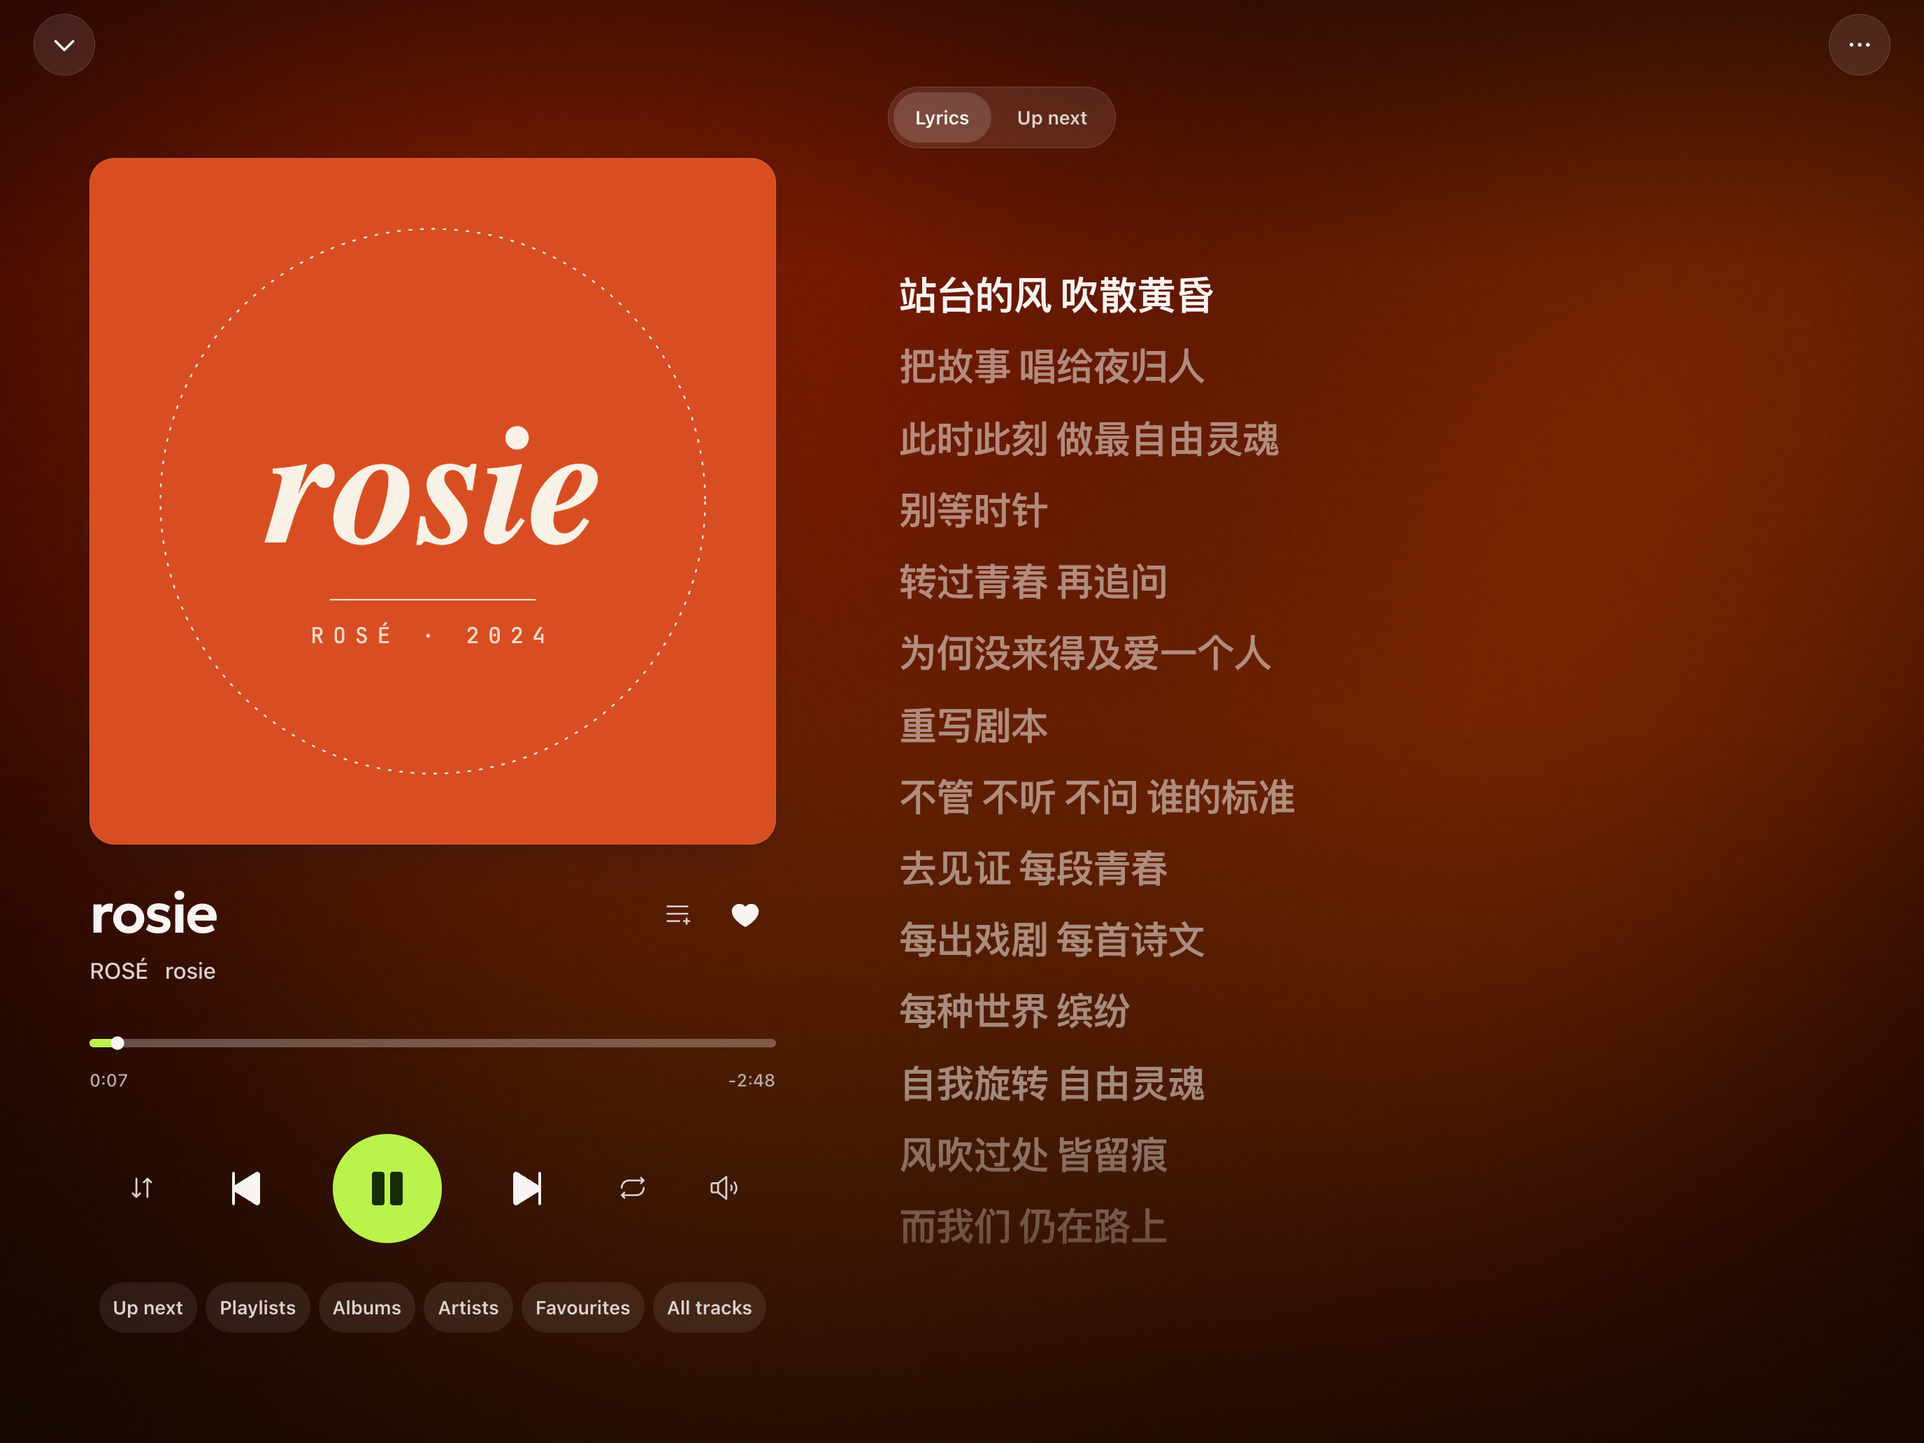
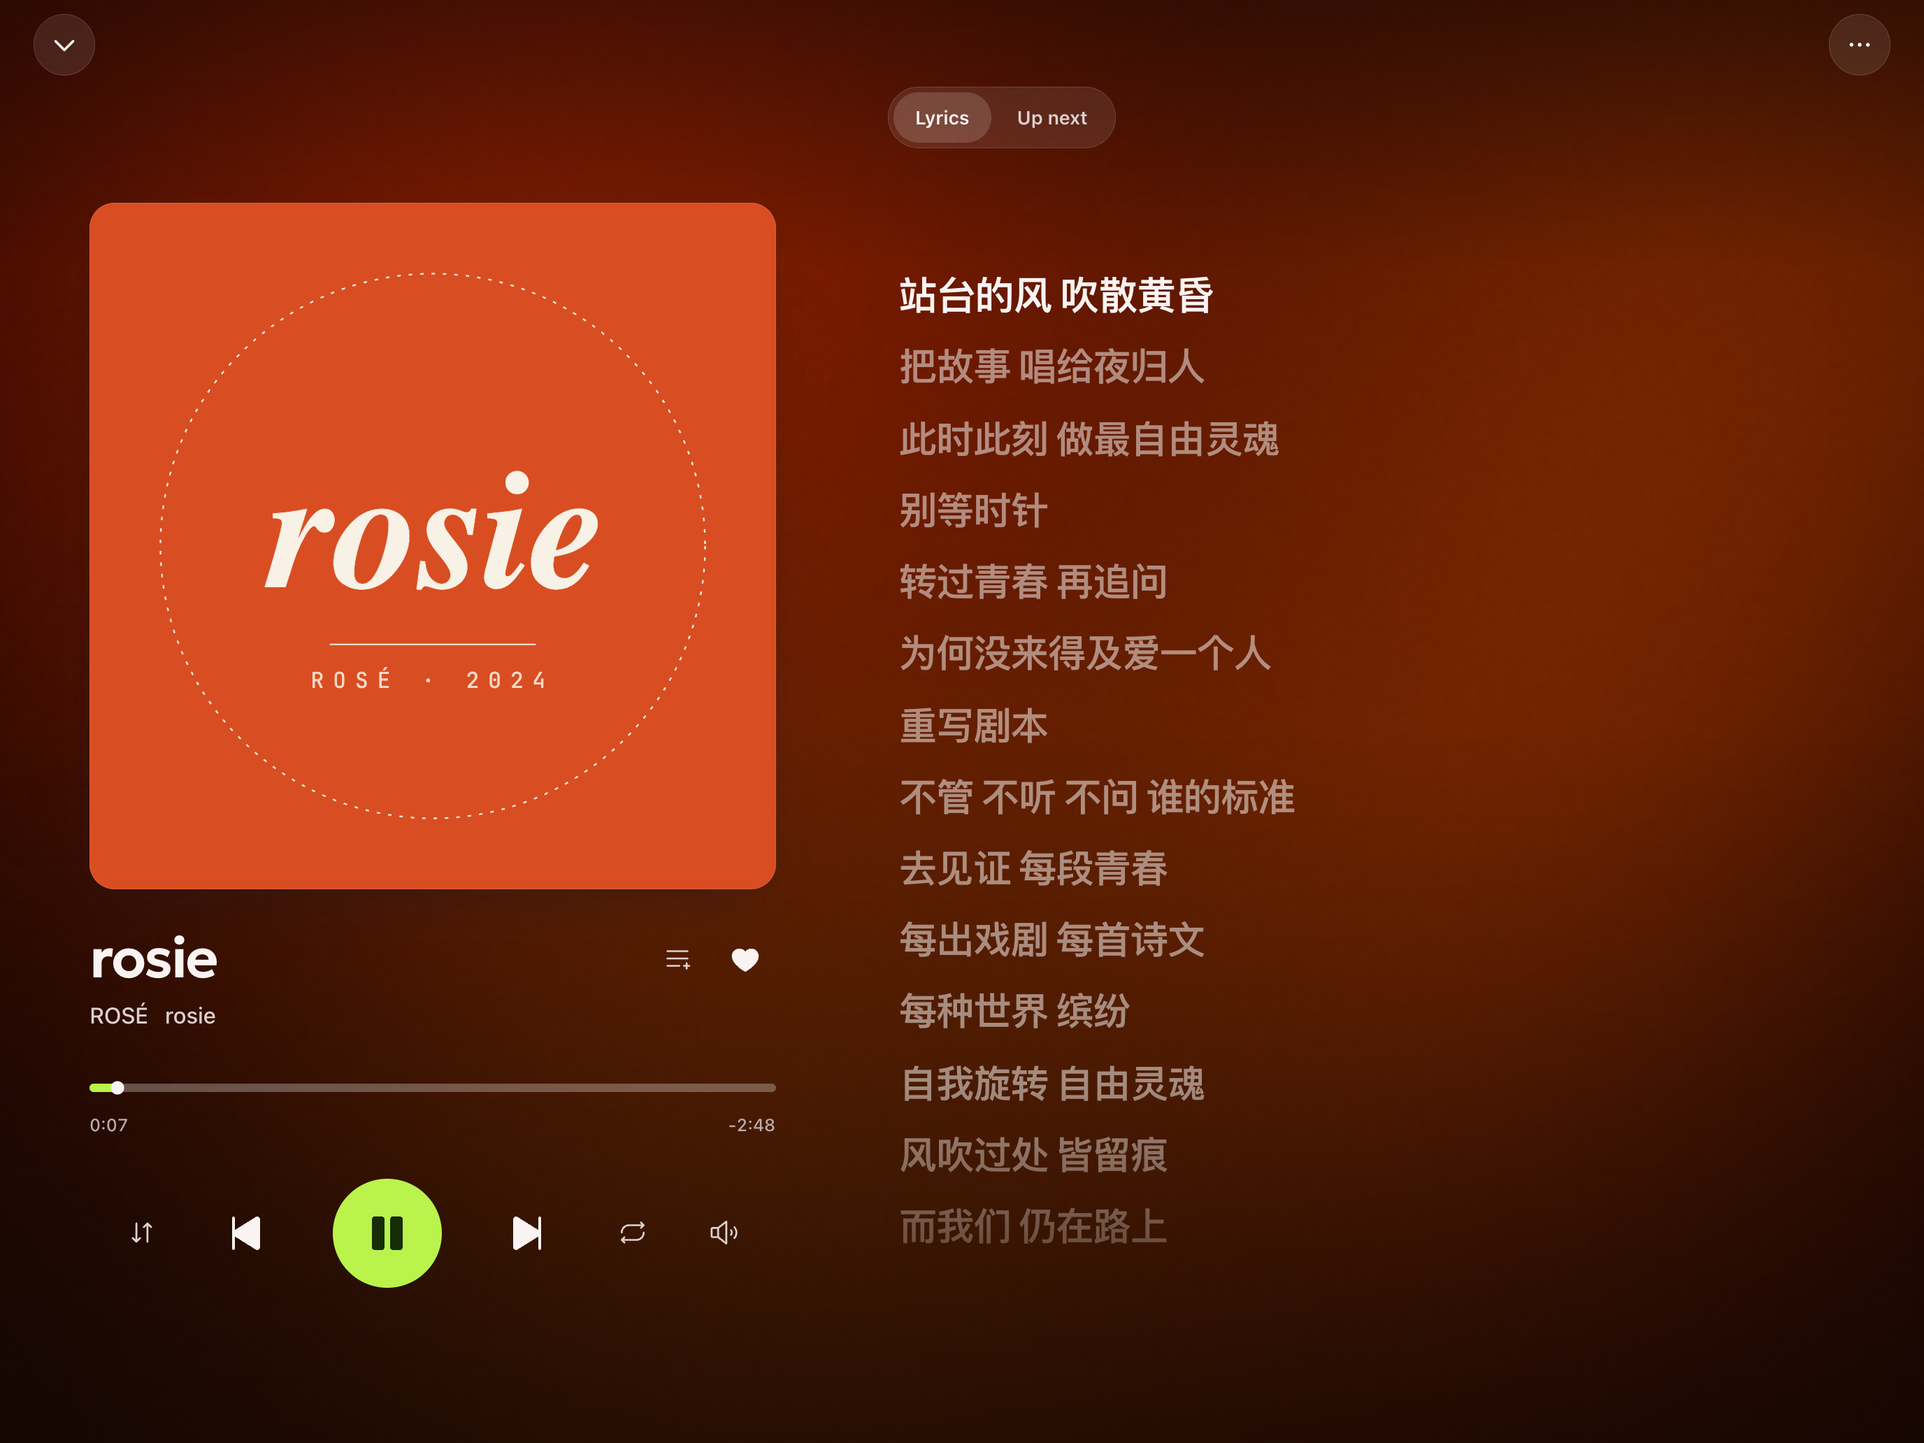
docs: 横屏卡片叠上墙——README、官网、DESIGN.md 跟着改，播放页截图重拍
- README / README_CN：「按封面挑歌」换成「横过来挑歌」；界面一节的卡片截图换成 iPad 横屏的卡片叠，
  正在播放那张的说明去掉已经拿掉的那排入口。
- 官网：「挑歌」标签换成卡片叠的截图与说法；正在播放横屏、手机两张截图重拍（不再有那排入口）。
- DESIGN.md：当前封面一节后面改写成横屏卡片叠——何时出现、排法与压暗、物理参数、分栏与数据、底下的正在播放；
  动效清单加一条卡片叠；文件对照表换成 CardStage / CardStack。

diff --git a/website/script.js b/website/script.js
@@ -31,15 +31,15 @@
     'player.sub': '当前封面的色相落进房间的光里。亮度按主题固定，所以不管封面是什么颜色，字都读得清。点下面的画面，看光怎么换。',
     'player.tab.player': '舞台', 'player.tab.browse': '挑歌', 'player.tab.phone': '手机',
     'player.tab.dark': '深色', 'player.tab.login': '欢迎页',
-    'player.cap.player': '横着的窗口：封面在左边，下面是控制和一排挑歌的入口；右边是放大的歌词，正在唱的那一行全亮。点任意一行跳过去。',
-    'player.cap.browse': '按封面挑歌：中间那张最大，两边小一档、压暗一点。左右滑着挑，点正中那张就放；每一栏记得自己滑到哪儿。',
+    'player.cap.player': '横着的窗口：封面在左边，下面是控制，右边是放大的歌词，正在唱的那一行全亮。点任意一行跳过去。',
+    'player.cap.browse': '横过来挑歌：接下来、推荐、专辑、歌单、收藏，都是一叠像 iPhone 多任务那样的大封面。用力一甩一路飞过去，停稳了点最前面那张就放。',
     'player.cap.phone': '手机上的全屏播放器：从播放条上展开，封面从迷你播放条飞到上方。',
     'player.cap.dark': '深色：青柠在暗底上本身就够亮，直接当强调色。亮暗切换从开关处铺开，也可以跟随系统。',
     'player.cap.login': '欢迎页：糯米和毛豆挥手；还没有歌在放，房间的光是青柠色。NAS 几秒连上，网易云音乐、QQ 音乐用手机扫个码。',
     'stage.f1t': '全屏播放器是一座暗色舞台',
     'stage.f1b': '光场取自当前封面。歌词放得很大，正在唱的那一行全亮。它从播放条上展开，封面从迷你播放条飞过来。',
-    'stage.f2t': '按封面挑歌',
-    'stage.f2b': '接下来、歌单、专辑、歌手、收藏、全部歌曲，都能摊成一排大封面：左右滑着挑，点正中那张就放。',
+    'stage.f2t': '横过来挑歌',
+    'stage.f2b': 'iPad 横过来，正在播放变成一叠大封面：用力一甩一路飞过去、再稳稳停住，点最前面那张就放。',
     'stage.f3t': '换歌时，光从封面漫开',
     'stage.f3b': '新封面的颜色从它所在的位置向外铺开，把上一首的光推出去。系统开了「减弱动态效果」时只换颜色，不铺开。',
     'ipad.title': '在 iPad 上，像个 iPad 应用',
@@ -120,15 +120,15 @@
     'player.sub': 'The hue of the cover that is playing falls into the light of the room. Lightness is fixed for each theme, so text stays readable on any cover. Pick a screen below and watch the light change.',
     'player.tab.player': 'Stage', 'player.tab.browse': 'Browse', 'player.tab.phone': 'Phone',
     'player.tab.dark': 'Dark', 'player.tab.login': 'Welcome',
-    'player.cap.player': 'A landscape window: the cover on the left with the controls and the ways to browse below it, large lyrics on the right with the current line fully lit. Tap any line to jump there.',
-    'player.cap.browse': 'Pick by cover: the one in the middle is largest, its neighbours a size smaller and dimmed. Swipe through, tap the middle one to play; each row remembers where you left it.',
+    'player.cap.player': 'A landscape window: the cover and the controls on the left, large lyrics on the right with the current line fully lit. Tap any line to jump there.',
+    'player.cap.browse': 'Cards in landscape: Up Next, For You, albums, playlists and favourites as a stack of covers, like the iPhone app switcher. Fling it, let it settle, tap the one in front to play.',
     'player.cap.phone': 'The full-screen player on iPhone: it unfolds from the player bar, and the cover flies up from the mini player.',
     'player.cap.dark': 'Dark: lime is bright enough on a dark ground to be the accent itself. Switching between light and dark spreads out from the toggle, or follows the system.',
     'player.cap.login': 'The welcome page: Nuomi and Maodou wave, and with no song playing the light of the room is lime. A NAS connects in seconds; NetEase Cloud Music and QQ Music take a scan from your phone.',
     'stage.f1t': 'The full-screen player is a dark stage',
     'stage.f1b': 'A light field sampled from the cover lights it. Lyrics are large and the current line is fully lit. It unfolds from the player bar, and the cover flies up from the mini player.',
-    'stage.f2t': 'Pick by cover',
-    'stage.f2b': 'Up Next, playlists, albums, artists, favourites and all tracks each open as a row of large covers. Swipe through, tap the middle one to play.',
+    'stage.f2t': 'Turn it sideways to pick',
+    'stage.f2b': 'Turn an iPad sideways and Now Playing becomes a stack of covers. Fling it, watch it fly and settle, tap the one in front to play.',
     'stage.f3t': 'On a new track, the light spreads from the cover',
     'stage.f3b': 'The new cover’s colour spreads out from where the cover sits and pushes the previous light away. With Reduce Motion on, the colour simply changes.',
     'ipad.title': 'On iPad, it behaves like an iPad app',
@@ -217,15 +217,15 @@
   var SHOTS = {
     player: {
       src: 'assets/player.webp', w: 1376, h: 1032, room: 'player', orient: 'landscape',
-      alt: ['横屏的全屏播放器：左边是封面和控制，下面一排挑歌的入口，右边是放大的歌词', 'The full-screen player in landscape: the cover, the controls and the ways to browse on the left, large lyrics on the right'],
+      alt: ['横屏的全屏播放器：左边是封面和控制，右边是放大的歌词', 'The full-screen player in landscape: the cover and controls on the left, large lyrics on the right'],
     },
     browse: {
-      src: 'assets/browse.webp', w: 1376, h: 1032, room: 'player', orient: 'landscape',
-      alt: ['按封面挑专辑：中间一张大封面，两边小一档，下面是播放键', 'Browsing albums by cover: one large cover in the middle, its neighbours smaller on either side, a Play button underneath'],
+      src: 'assets/cards.webp', w: 1376, h: 1032, room: 'player', orient: 'landscape',
+      alt: ['iPad 横屏的卡片叠：专辑封面往左叠成一摞，正在放的那张在最前面', 'Cards in landscape on iPad: album covers fanned to the left, the playing album in front'],
     },
     phone: {
       src: 'assets/phone-player.webp', w: 1179, h: 2556, room: 'phone', orient: 'portrait',
-      alt: ['iPhone 上的全屏播放器：封面在上方，下面是进度条、播放键和一排挑歌的入口', 'The full-screen player on iPhone: the cover on top, then progress, play controls and the ways to browse'],
+      alt: ['iPhone 上的全屏播放器：封面在上方，下面是进度条和播放键', 'The full-screen player on iPhone: the cover on top, progress and play controls below'],
     },
     dark: {
       src: 'assets/home-dark.webp', w: 1376, h: 1032, room: 'dark', orient: 'landscape',

diff --git a/website/index.html b/website/index.html
@@ -120,9 +120,9 @@
         <div id="stagePanel" role="tabpanel" aria-labelledby="tab-player" tabindex="0">
           <figure class="stage" data-orient="landscape">
             <div class="stage-frame">
-              <img class="shot" id="stageImg" src="assets/player.webp" alt="横屏的全屏播放器：左边是封面和控制，下面一排挑歌的入口，右边是放大的歌词" width="1376" height="1032" loading="lazy" />
+              <img class="shot" id="stageImg" src="assets/player.webp" alt="横屏的全屏播放器：左边是封面和控制，右边是放大的歌词" width="1376" height="1032" loading="lazy" />
             </div>
-            <figcaption id="stageCaption" data-i18n="player.cap.player">横着的窗口：封面在左边，下面是控制和一排挑歌的入口；右边是放大的歌词，正在唱的那一行全亮。点任意一行跳过去。</figcaption>
+            <figcaption id="stageCaption" data-i18n="player.cap.player">横着的窗口：封面在左边，下面是控制，右边是放大的歌词，正在唱的那一行全亮。点任意一行跳过去。</figcaption>
           </figure>
         </div>
 
@@ -132,8 +132,8 @@
             <p data-i18n="stage.f1b">光场取自当前封面。歌词放得很大，正在唱的那一行全亮。它从播放条上展开，封面从迷你播放条飞过来。</p>
           </div>
           <div class="stage-fact">
-            <h3 data-i18n="stage.f2t">按封面挑歌</h3>
-            <p data-i18n="stage.f2b">接下来、歌单、专辑、歌手、收藏、全部歌曲，都能摊成一排大封面：左右滑着挑，点正中那张就放。</p>
+            <h3 data-i18n="stage.f2t">横过来挑歌</h3>
+            <p data-i18n="stage.f2b">iPad 横过来，正在播放变成一叠大封面：用力一甩一路飞过去、再稳稳停住，点最前面那张就放。</p>
           </div>
           <div class="stage-fact">
             <h3 data-i18n="stage.f3t">换歌时，光从封面漫开</h3>

diff --git a/README.md b/README.md
@@ -47,7 +47,7 @@ N1KO MUSIC wants to be a player you leave open all day. v6 rebuilt the interface
 |---|---|
 | **The room takes the colour of the song** | The shell is a quiet porcelain white (graphite at night), and the cover of the current track washes it in its own colour. Only the hue is taken; lightness is fixed per theme, so text stays just as readable whatever the cover. When the track changes, the new colour spreads outward from the cover. |
 | **The lights go down** | The full-screen player is always a dark stage: the background is a light field sampled from the cover, four soft lights drifting slowly; lyrics are set large and the current line is fully lit. Opening it unfolds the stage from the player bar while the cover flies over from the mini player; closing it reverses the trip. |
-| **Pick by cover** | Under the controls sit Up Next, Playlists, Albums, Artists, Favourites and All tracks. Each opens a row of large covers: swipe through them and tap the one in the middle to play it. The cover that is playing still flicks: left for the next track, right for the previous one. |
+| **Turn it sideways to pick** | Turn an iPad or a phone sideways and Now Playing becomes a stack of large covers, like the iPhone app switcher: Up Next, For You, Albums, Playlists and Favourites. Fling it hard and it flies through the stack, then settles on a card; tap the card in front to play it. Upright, the playing cover still flicks: left for the next track, right for the previous one. Settings can turn the stack off, or use it in landscape windows on a computer too. |
 | **It moves like a thing** | Every press answers immediately and settles back without wobble; drags follow the finger, keep their velocity and can be interrupted at any time. Mouse wheels get an inertial glide (trackpads and touch already have one, so they are left alone), shelves snap card by card, and switching light and dark spreads out from the toggle. With Reduce Motion on, movement turns into plain fades. |
 | **Window-shaped, not device-shaped** | A narrow window gets a floating tab bar, a medium one a navigation rail, a wide one an iPadOS-style sidebar plus a Now Playing panel. |
 | **Nuomi and Maodou** | A white bunny in overalls and a green frog in headphones. They only appear when there is nothing else to look at: the splash, the welcome screen, an empty list, an error, with one pose per state. |
@@ -68,11 +68,11 @@ the source renders, the prompts behind them and the local cut-out script are in 
 <table>
 <tr>
 <td width="50%"><img src="docs/screenshots/v6/player.png" alt="Now Playing in landscape: a light field sampled from the cover, the cover and controls, large lyrics" /></td>
-<td width="50%"><img src="docs/screenshots/v6/browse.png" alt="Browsing albums by cover: one large cover in the middle, its neighbours smaller on either side, a Play button underneath" /></td>
+<td width="50%"><img src="docs/screenshots/v6/cards.png" alt="Cards in landscape on iPad: album covers fanned to the left, the playing album in front, a mini player underneath" /></td>
 </tr>
 <tr>
-<td><b>Now Playing</b>: in a landscape window the cover and controls sit on the left with the ways to browse underneath; lyrics stay on the right, tap any line to jump to it.</td>
-<td><b>Pick by cover</b>: Up Next, playlists, albums, artists, favourites and all tracks, each as a row of large covers. Swipe through, tap the one in the middle to play it.</td>
+<td><b>Now Playing</b>: in a landscape window the cover and controls sit on the left, lyrics stay on the right; tap any line to jump to it.</td>
+<td><b>Cards in landscape</b>: Up Next, For You, albums, playlists and favourites as a stack of covers you fling through. Tap the one in front to play it.</td>
 </tr>
 <tr>
 <td width="50%"><img src="docs/screenshots/v6/home-dark.png" alt="Home in dark mode" /></td>

diff --git a/README_CN.md b/README_CN.md
@@ -46,7 +46,7 @@ N1KO MUSIC 想做的是一个你愿意一直开着的播放器。v6 把界面从
 |---|---|
 | **房间随歌变色** | 外壳是安静的冷瓷白（深色是石墨夜），当前曲目的封面把它的颜色洒进房间。取色只取色相，亮度按主题锁住，所以换哪张封面，文字都一样清楚。切歌时，新的颜色从封面的位置向外漫开。 |
 | **灯暗下来的舞台** | 全屏播放器永远是暗场：背景是从封面取色的光场，四盏柔光慢慢游走；歌词是大字，当前行全亮。打开时舞台从底部播放条展开、封面从迷你条飞过去，收起原路飞回。 |
-| **按封面挑歌** | 控制下面一排入口：接下来、歌单、专辑、歌手、收藏、全部歌曲。点开是一排大封面，左右滑着挑，点正中那张就放。正在放的那张封面照样能甩：左甩下一首，右甩上一首。 |
+| **横过来挑歌** | iPad、手机横过来，正在播放变成一叠大封面，像 iPhone 的多任务界面：接下来、推荐、专辑、歌单、收藏。用力一甩，卡片一路飞过去，再稳稳停在某一张上；点最前面那张就放。竖着的时候，正在放的那张封面照样能甩：左甩下一首，右甩上一首。设置里可以关掉卡片叠，也可以让电脑上的横屏窗口也用。 |
 | **像实物一样动** | 按下立刻有反馈，松手平稳弹回；拖动跟手、带速度、随时可以打断。鼠标滚轮补上了惯性滑行（触控板和触屏本来就有，不碰）；横向书架按卡片吸附；切亮暗从开关处扩散。系统开了「减弱动态效果」，位移一律退成淡入淡出。 |
 | **只看窗口，不看设备** | 窄窗口是底部浮动标签栏，中等宽度是左侧导航条，宽窗口是 iPadOS 式侧栏加右侧「正在播放」面板。iPhone、展开的 iPhone Duo、iPad 分屏、台前调度里随手拖的窗口，都拿到合适的那一套。 |
 | **糯米和毛豆** | 一只穿背带裤的白兔，一只戴耳机的绿青蛙。它们只在没有内容可看的时候出来：开屏、登录欢迎、空列表、出错的时候；每种状态一个姿势。 |
@@ -67,11 +67,11 @@ N1KO MUSIC 想做的是一个你愿意一直开着的播放器。v6 把界面从
 <table>
 <tr>
 <td width="50%"><img src="docs/screenshots/v6/player.png" alt="横屏的正在播放：封面取色的光场、封面和控制、大字歌词" /></td>
-<td width="50%"><img src="docs/screenshots/v6/browse.png" alt="按封面挑专辑：中间一张大封面，两边小一档，下面是播放键" /></td>
+<td width="50%"><img src="docs/screenshots/v6/cards.png" alt="iPad 横屏的卡片叠：专辑封面往左叠成一摞，正在放的那张在最前面，下面是迷你播放条" /></td>
 </tr>
 <tr>
-<td><b>正在播放</b>：横着的窗口左边是封面和控制，下面一排是挑歌的入口；右边一直摆着歌词，点任意一行跳过去。</td>
-<td><b>按封面挑歌</b>：接下来、歌单、专辑、歌手、收藏、全部歌曲，都能摊成一排大封面。左右滑着挑，点正中那张就放。</td>
+<td><b>正在播放</b>：横着的窗口左边是封面和控制，右边一直摆着歌词，点任意一行跳过去。</td>
+<td><b>横过来挑歌</b>：接下来、推荐、专辑、歌单、收藏，都是一叠可以甩的大封面，点最前面那张就放。</td>
 </tr>
 <tr>
 <td width="50%"><img src="docs/screenshots/v6/home-dark.png" alt="深色的首页" /></td>
